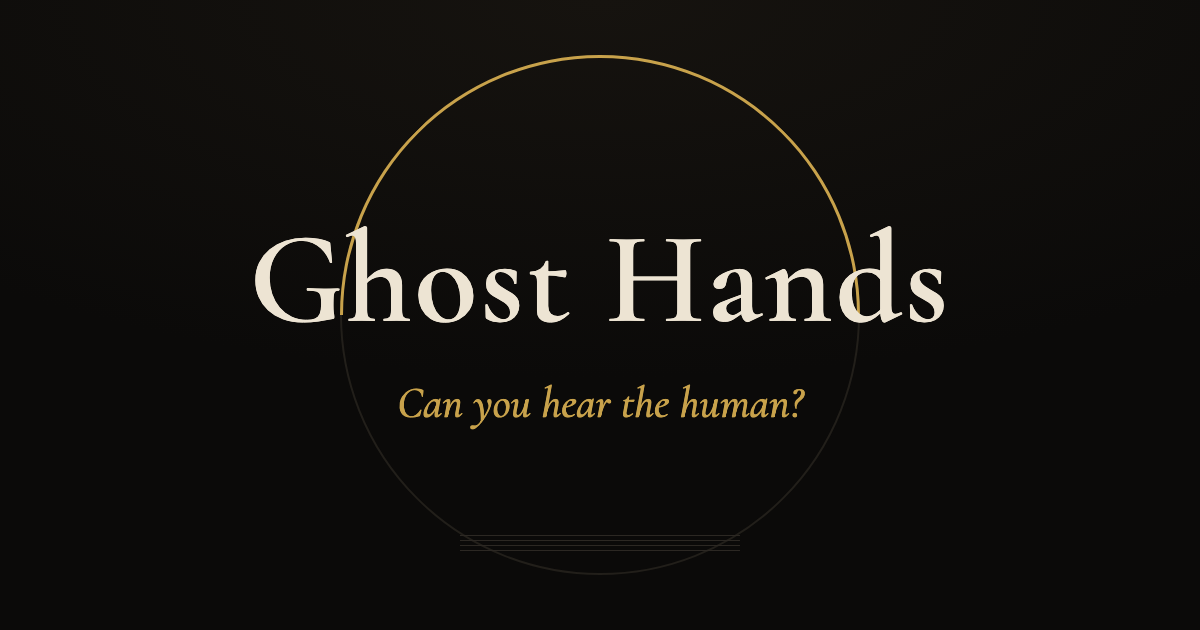
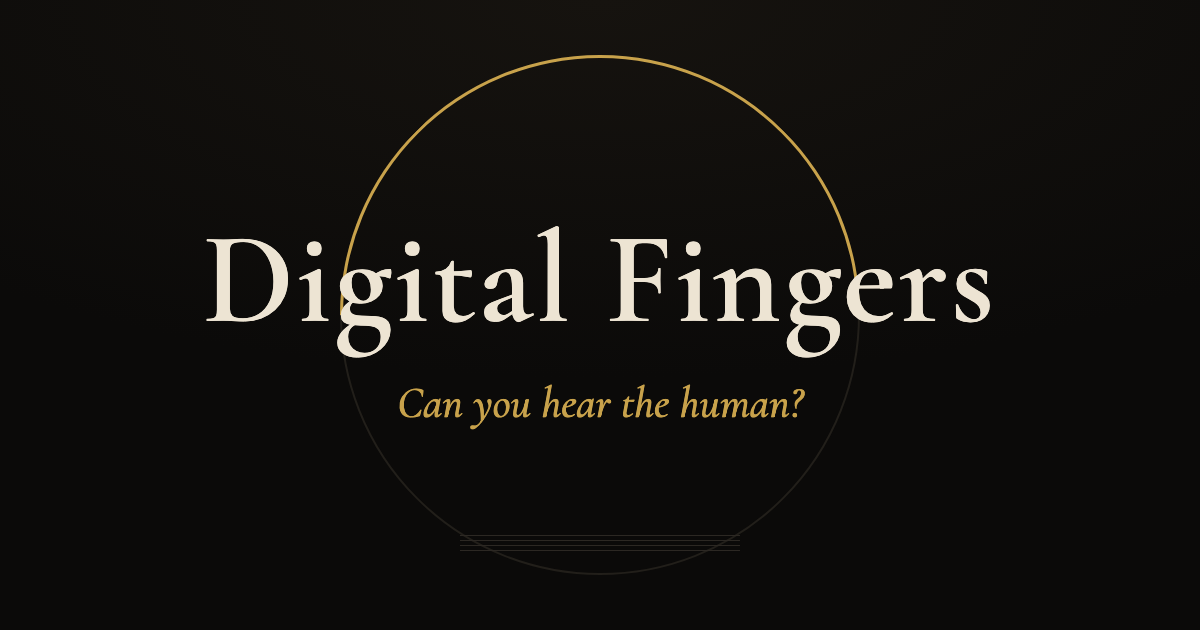
Rename Ghost Hands → Digital Fingers
Site name, wordmark, page titles, OG/Twitter metadata, JSON-LD,
canonical URLs (digitalfingers.pages.dev), localStorage key, README,
regenerated OG image, and the verdict copy that punned on the old name.

Changed region(s): [[0.1542, 0.3619, 0.4933, 0.573], [0.5242, 0.3619, 0.8325, 0.573]]

diff --git a/index.html b/index.html
@@ -3,23 +3,23 @@
 <head>
   <meta charset="utf-8">
   <meta name="viewport" content="width=device-width, initial-scale=1">
-  <title>Ghost Hands — Can You Hear the Human?</title>
+  <title>Digital Fingers — Can You Hear the Human?</title>
   <meta name="description" content="A blind listening test. Short piano performances — some played by human hands, some rendered by a machine from the score. Can your ear tell which is which?">
-  <link rel="canonical" href="https://ghosthands.pages.dev/">
+  <link rel="canonical" href="https://digitalfingers.pages.dev/">
   <link rel="icon" href="/assets/favicon.svg" type="image/svg+xml">
 
   <meta property="og:type" content="website">
-  <meta property="og:site_name" content="Ghost Hands">
-  <meta property="og:title" content="Ghost Hands — Can You Hear the Human?">
+  <meta property="og:site_name" content="Digital Fingers">
+  <meta property="og:title" content="Digital Fingers — Can You Hear the Human?">
   <meta property="og:description" content="A blind listening test: human pianist or machine rendering? Ten rounds. Trust your ear.">
-  <meta property="og:url" content="https://ghosthands.pages.dev/">
-  <meta property="og:image" content="https://ghosthands.pages.dev/assets/og-image.png">
+  <meta property="og:url" content="https://digitalfingers.pages.dev/">
+  <meta property="og:image" content="https://digitalfingers.pages.dev/assets/og-image.png">
   <meta property="og:image:width" content="1200">
   <meta property="og:image:height" content="630">
   <meta name="twitter:card" content="summary_large_image">
-  <meta name="twitter:title" content="Ghost Hands — Can You Hear the Human?">
+  <meta name="twitter:title" content="Digital Fingers — Can You Hear the Human?">
   <meta name="twitter:description" content="A blind listening test: human pianist or machine rendering? Ten rounds. Trust your ear.">
-  <meta name="twitter:image" content="https://ghosthands.pages.dev/assets/og-image.png">
+  <meta name="twitter:image" content="https://digitalfingers.pages.dev/assets/og-image.png">
 
   <link rel="preload" href="/fonts/cormorant-garamond-normal-600-latin.woff2" as="font" type="font/woff2" crossorigin>
   <link rel="stylesheet" href="/fonts/fonts.css">
@@ -31,14 +31,14 @@
     "@graph": [
       {
         "@type": "WebSite",
-        "name": "Ghost Hands",
-        "url": "https://ghosthands.pages.dev/",
+        "name": "Digital Fingers",
+        "url": "https://digitalfingers.pages.dev/",
         "description": "A blind listening test: human pianist or machine rendering?"
       },
       {
         "@type": "Game",
-        "name": "Ghost Hands — Can You Hear the Human?",
-        "url": "https://ghosthands.pages.dev/",
+        "name": "Digital Fingers — Can You Hear the Human?",
+        "url": "https://digitalfingers.pages.dev/",
         "description": "An interactive listening game. Hear short piano excerpts and decide whether each was played by a human pianist or rendered by a computer from the score.",
         "genre": "music listening test",
         "gamePlatform": "Web browser",
@@ -50,7 +50,7 @@
 </head>
 <body>
   <header class="site-header">
-    <a class="wordmark" href="/">Ghost Hands</a>
+    <a class="wordmark" href="/">Digital Fingers</a>
     <nav class="site-nav" aria-label="Site">
       <a href="/learn.html">Learn the tells</a>
       <a href="/about.html">About</a>
@@ -63,7 +63,7 @@
     <!-- ============ intro ============ -->
     <section id="screen-intro" class="screen is-active" aria-label="Start">
       <div class="hero">
-        <h1>Ghost Hands</h1>
+        <h1>Digital Fingers</h1>
         <p class="premise">Some of these piano performances are human. Some are <em>machines reading the score</em>. Half a minute each — can your ear tell the difference?</p>
         <div class="begin-row">
           <button id="begin-btn" class="btn-primary">Begin listening</button>

diff --git a/about.html b/about.html
@@ -3,17 +3,17 @@
 <head>
   <meta charset="utf-8">
   <meta name="viewport" content="width=device-width, initial-scale=1">
-  <title>About &amp; Credits — Ghost Hands</title>
-  <meta name="description" content="How Ghost Hands works, why every clip is legally public domain, and full credits for the recordings, scores, and samples.">
-  <link rel="canonical" href="https://ghosthands.pages.dev/about.html">
+  <title>About &amp; Credits — Digital Fingers</title>
+  <meta name="description" content="How Digital Fingers works, why every clip is legally public domain, and full credits for the recordings, scores, and samples.">
+  <link rel="canonical" href="https://digitalfingers.pages.dev/about.html">
   <link rel="icon" href="/assets/favicon.svg" type="image/svg+xml">
 
   <meta property="og:type" content="website">
-  <meta property="og:site_name" content="Ghost Hands">
-  <meta property="og:title" content="About Ghost Hands">
+  <meta property="og:site_name" content="Digital Fingers">
+  <meta property="og:title" content="About Digital Fingers">
   <meta property="og:description" content="How the blind listening test works, and full credits for its public-domain audio.">
-  <meta property="og:url" content="https://ghosthands.pages.dev/about.html">
-  <meta property="og:image" content="https://ghosthands.pages.dev/assets/og-image.png">
+  <meta property="og:url" content="https://digitalfingers.pages.dev/about.html">
+  <meta property="og:image" content="https://digitalfingers.pages.dev/assets/og-image.png">
   <meta name="twitter:card" content="summary_large_image">
 
   <link rel="preload" href="/fonts/cormorant-garamond-normal-600-latin.woff2" as="font" type="font/woff2" crossorigin>
@@ -22,7 +22,7 @@
 </head>
 <body>
   <header class="site-header">
-    <a class="wordmark" href="/">Ghost Hands</a>
+    <a class="wordmark" href="/">Digital Fingers</a>
     <nav class="site-nav" aria-label="Site">
       <a href="/learn.html">Learn the tells</a>
       <a href="/about.html" aria-current="page">About</a>
@@ -34,7 +34,7 @@
       <header class="page-head">
         <span class="kicker">About</span>
         <h1>The Experiment</h1>
-        <p class="lede">Ghost Hands is a blind listening test. Every round plays a short solo-piano excerpt; you decide whether it came from human hands or from software reading the score. Then the site tells you the truth, and — more usefully — <em>why</em>.</p>
+        <p class="lede">Digital Fingers is a blind listening test. Every round plays a short solo-piano excerpt; you decide whether it came from human hands or from software reading the score. Then the site tells you the truth, and — more usefully — <em>why</em>.</p>
       </header>
 
       <h2>How the clips are made</h2>

diff --git a/learn.html b/learn.html
@@ -3,17 +3,17 @@
 <head>
   <meta charset="utf-8">
   <meta name="viewport" content="width=device-width, initial-scale=1">
-  <title>How to Hear a Human — Ghost Hands</title>
+  <title>How to Hear a Human — Digital Fingers</title>
   <meta name="description" content="The five expressive fingerprints of a human pianist — micro-timing, dynamics, pedaling, articulation, and imperfection — with A/B demos you can hear.">
-  <link rel="canonical" href="https://ghosthands.pages.dev/learn.html">
+  <link rel="canonical" href="https://digitalfingers.pages.dev/learn.html">
   <link rel="icon" href="/assets/favicon.svg" type="image/svg+xml">
 
   <meta property="og:type" content="article">
-  <meta property="og:site_name" content="Ghost Hands">
+  <meta property="og:site_name" content="Digital Fingers">
   <meta property="og:title" content="How to Hear a Human">
   <meta property="og:description" content="The five expressive fingerprints of a human pianist, with A/B demos you can hear.">
-  <meta property="og:url" content="https://ghosthands.pages.dev/learn.html">
-  <meta property="og:image" content="https://ghosthands.pages.dev/assets/og-image.png">
+  <meta property="og:url" content="https://digitalfingers.pages.dev/learn.html">
+  <meta property="og:image" content="https://digitalfingers.pages.dev/assets/og-image.png">
   <meta name="twitter:card" content="summary_large_image">
 
   <link rel="preload" href="/fonts/cormorant-garamond-normal-600-latin.woff2" as="font" type="font/woff2" crossorigin>
@@ -26,14 +26,14 @@
     "@type": "Article",
     "headline": "How to Hear a Human",
     "description": "The five expressive fingerprints of a human pianist, with listenable A/B demonstrations.",
-    "url": "https://ghosthands.pages.dev/learn.html",
-    "isPartOf": { "@type": "WebSite", "name": "Ghost Hands", "url": "https://ghosthands.pages.dev/" }
+    "url": "https://digitalfingers.pages.dev/learn.html",
+    "isPartOf": { "@type": "WebSite", "name": "Digital Fingers", "url": "https://digitalfingers.pages.dev/" }
   }
   </script>
 </head>
 <body>
   <header class="site-header">
-    <a class="wordmark" href="/">Ghost Hands</a>
+    <a class="wordmark" href="/">Digital Fingers</a>
     <nav class="site-nav" aria-label="Site">
       <a href="/learn.html" aria-current="page">Learn the tells</a>
       <a href="/about.html">About</a>

diff --git a/js/game.js b/js/game.js
@@ -35,7 +35,7 @@ export function verdictFor(score, total) {
   const pct = total ? score / total : 0;
   if (pct === 1) return {
     title: 'Golden Ears',
-    line: `You caught the ghost ${score} times out of ${total}. Nothing got past you — not even the renders built to deceive.`,
+    line: `${score} out of ${total}. Not one digital finger slipped past you — not even the renders built to deceive.`,
   };
   if (pct >= 0.8) return {
     title: 'The Skeptic',
@@ -43,7 +43,7 @@ export function verdictFor(score, total) {
   };
   if (pct >= 0.6) return {
     title: 'A Fine Ear, Occasionally Haunted',
-    line: `${score} of ${total}. You caught most of them, but a few ghosts walked right past you wearing human clothes.`,
+    line: `${score} of ${total}. You caught most of them, but a few machines walked right past you wearing human clothes.`,
   };
   if (pct >= 0.4) return {
     title: 'In the Uncanny Valley',

diff --git a/assets/og.html b/assets/og.html
@@ -48,7 +48,7 @@
 </head>
 <body>
   <div class="ring"><div class="arc"></div></div>
-  <h1>Ghost Hands</h1>
+  <h1>Digital Fingers</h1>
   <p>Can you hear the human?</p>
   <div class="staff"></div>
 </body>

diff --git a/css/style.css b/css/style.css
@@ -1,5 +1,5 @@
 /* ==========================================================================
-   Ghost Hands — nocturne design system
+   Digital Fingers — nocturne design system
    Piano-lacquer black, warm ivory, one brass accent. Typography leads.
    ========================================================================== */
 

diff --git a/js/main.js b/js/main.js
@@ -244,7 +244,7 @@ function finishSession() {
 
   const worst = hardestClip(byId);
   els.hardestLine.textContent = worst
-    ? `Your personal ghost: ${worst.clip.title} — it has fooled you ${worst.wrong} of ${worst.seen} times.`
+    ? `The clip that haunts you: ${worst.clip.title} — it has fooled you ${worst.wrong} of ${worst.seen} times.`
     : '';
 
   show('results');

diff --git a/js/stats.js b/js/stats.js
@@ -1,6 +1,6 @@
 /* stats.js — persistent listener stats. localStorage only; no backend, no cookies. */
 
-const KEY = 'ghosthands.v1';
+const KEY = 'digitalfingers.v1';
 
 function read() {
   try {

diff --git a/tools/render-clips.js b/tools/render-clips.js
@@ -1,6 +1,6 @@
 #!/usr/bin/env node
 /**
- * render-clips.js — Ghost Hands offline audio renderer.
+ * render-clips.js — Digital Fingers offline audio renderer.
  *
  * Parses public-domain MIDI files (Mutopia Project typesettings), applies one of
  * three expression tiers (deadpan / humanized / expressive), renders the result

diff --git a/README.md b/README.md
@@ -1,11 +1,11 @@
-# Ghost Hands — Can You Hear the Human?
+# Digital Fingers — Can You Hear the Human?
 
 A blind listening test: short solo-piano excerpts, some played by human pianists,
 some rendered by software from the score. Visitors guess **Human** or **Machine**,
 get an explanation of the tells after each answer, and track their accuracy over
 time. Static site — no backend, no build step, no frameworks.
 
-Live: `https://ghosthands.pages.dev` (update canonical URLs if the domain changes —
+Live: `https://digitalfingers.pages.dev` (update canonical URLs if the domain changes —
 they appear in every HTML `<head>`, `sitemap.xml`, and `robots.txt`).
 
 ## Layout
@@ -37,7 +37,7 @@ _headers              Cloudflare Pages cache/security headers
 - **Hard mode** restricts the draw to clips flagged `"hard": true` — expressive-tier
   renders and unusually precise human playing.
 - Keyboard: `Space`/`P` play · `H`/`←` human · `M`/`→` machine · `Enter`/`N` next.
-- Stats live in `localStorage` (`ghosthands.v1`): per-session history, lifetime
+- Stats live in `localStorage` (`digitalfingers.v1`): per-session history, lifetime
   accuracy, the visitor's most-fooling clip, and a sparkline after 3+ sessions.
 - A clip that fails to load is skipped gracefully and doesn't count against the score.
 